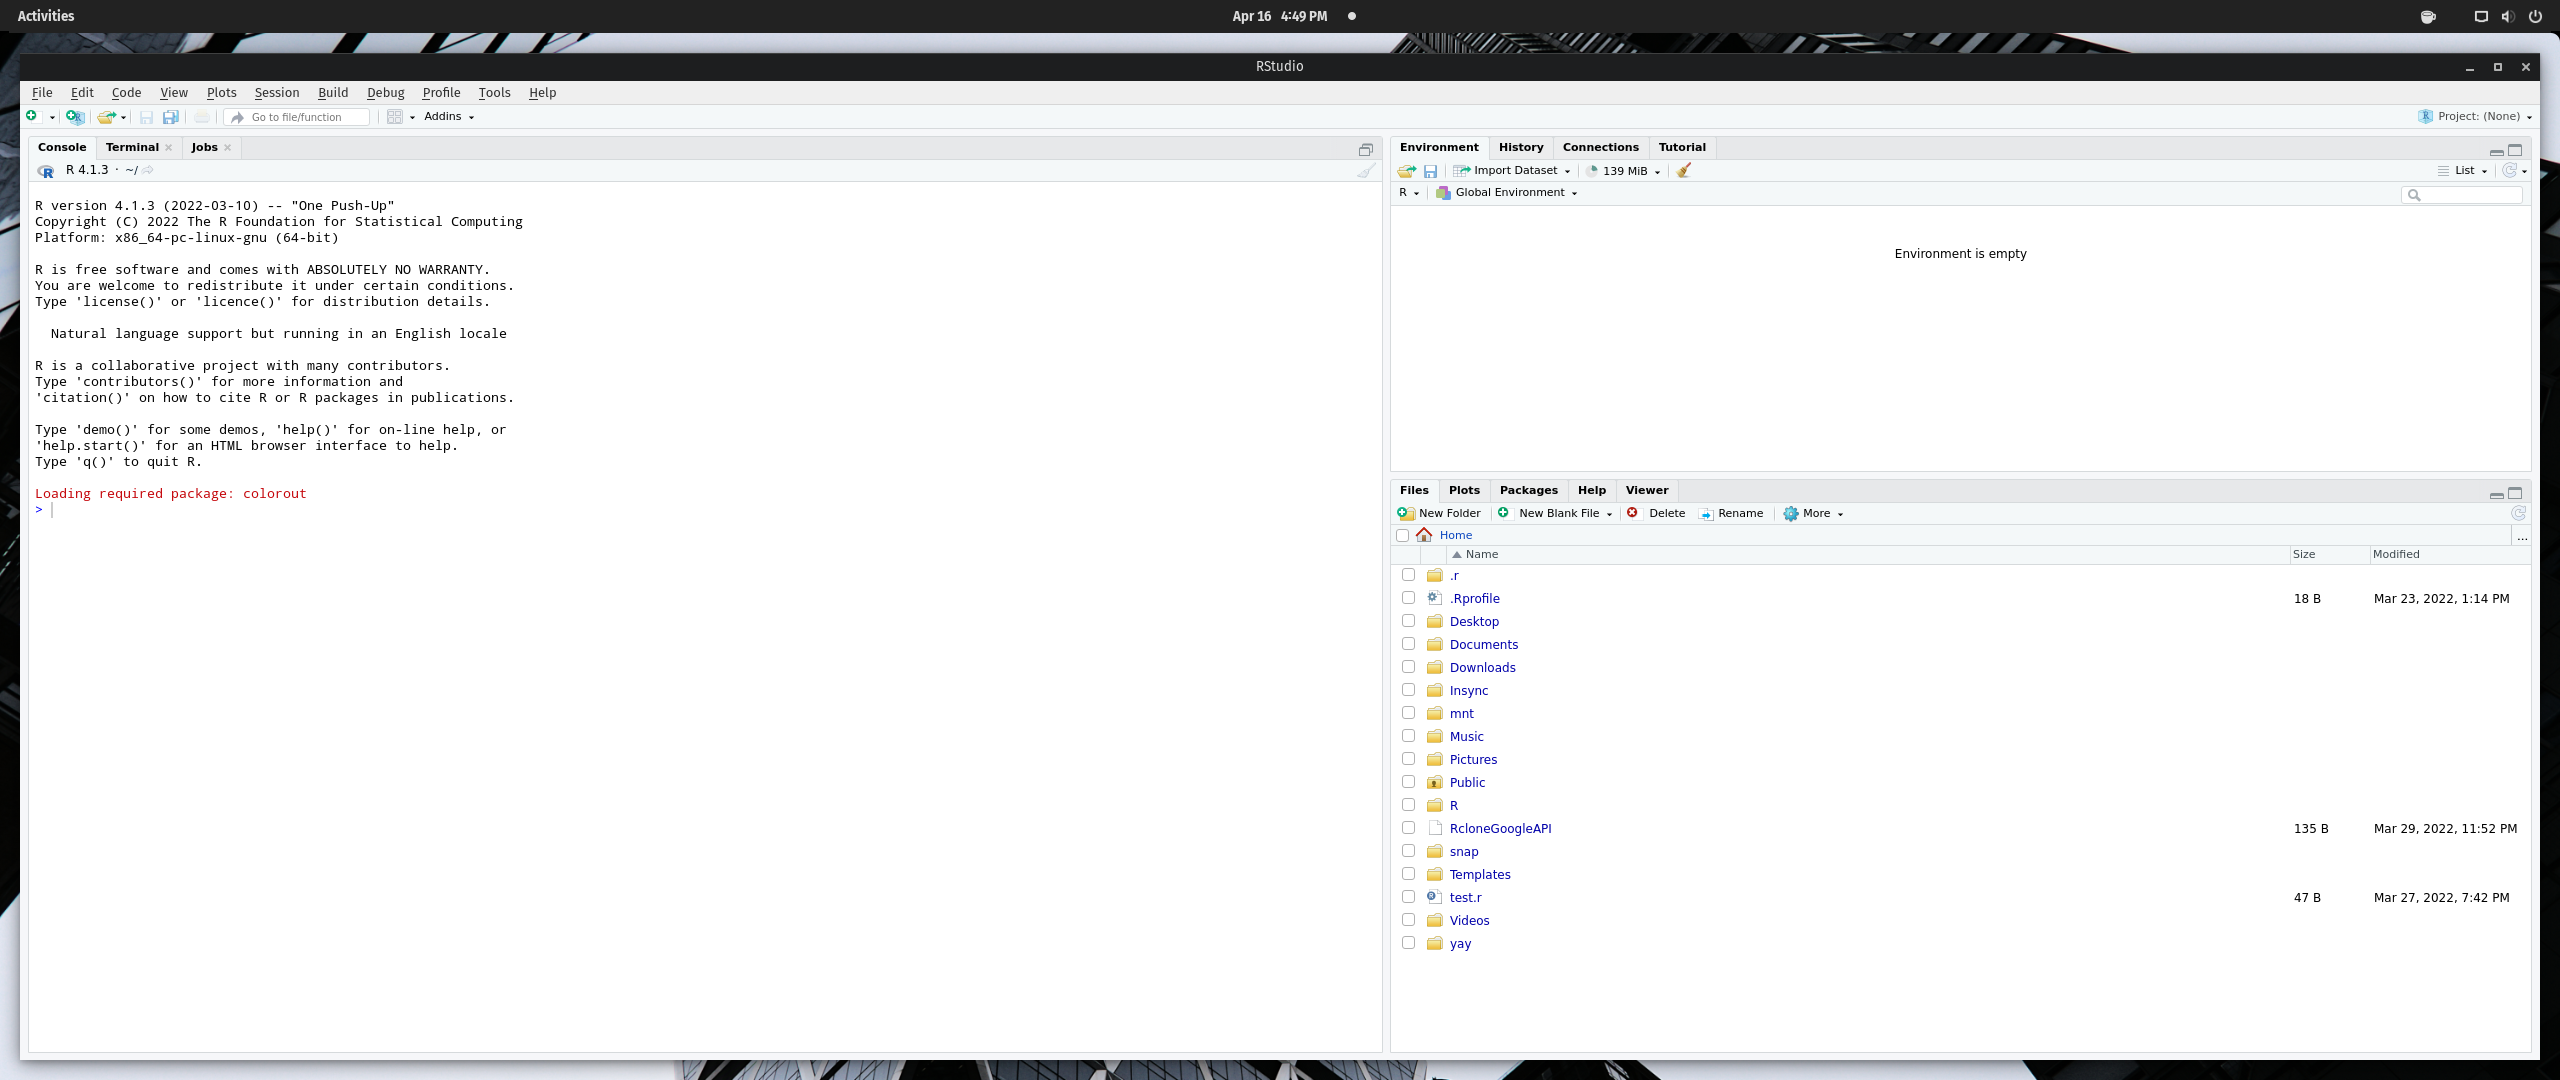
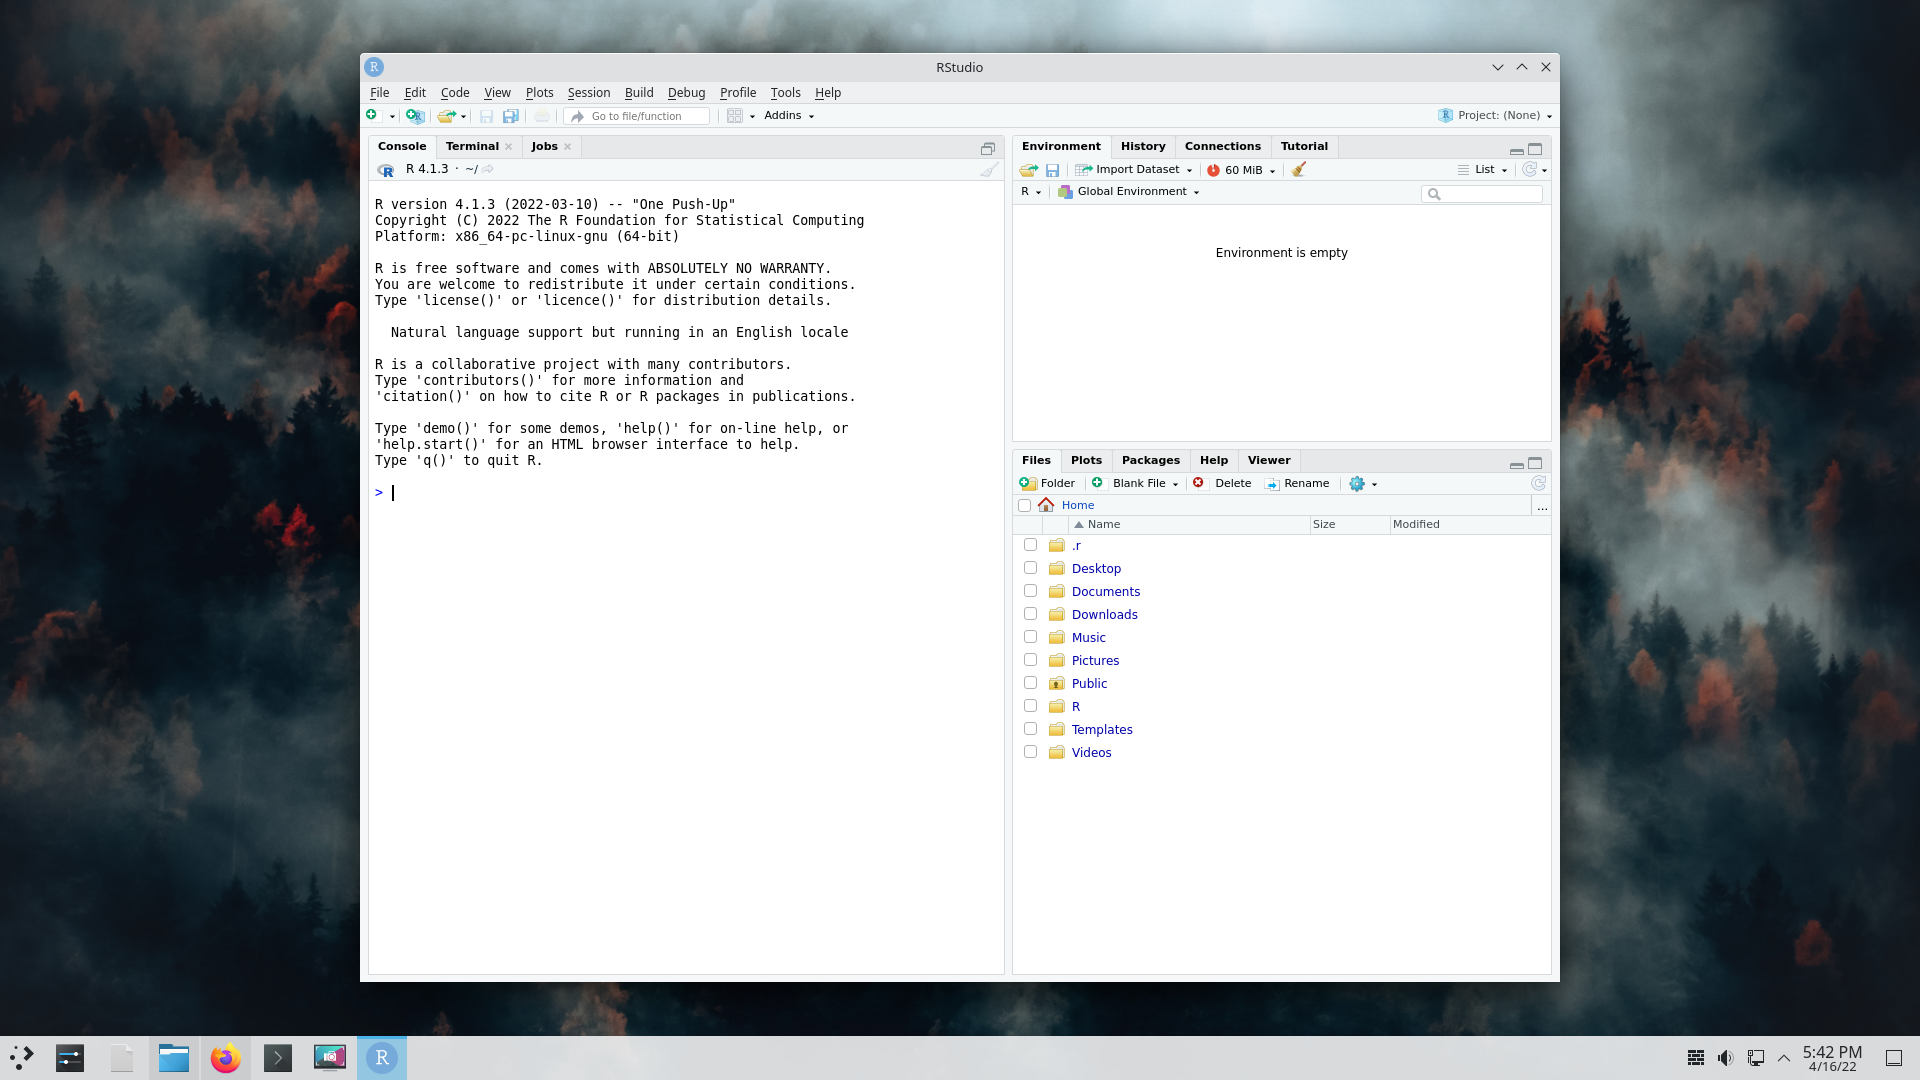
update linux screen shots

diff --git a/README.md b/README.md
@@ -49,6 +49,7 @@ complexity. Skills in data analysis with R is now becoming a must for many looki
 for graduate or professional positions and is a great addition to a
 resumé.
 
+ [Tutorial Videos](http://www.lundquistecology.com/videos/r-tutorials)
 
 <a id="org6dff171"></a>
 
@@ -57,9 +58,9 @@ resumé.
 Whether you are using MacOS, Windows, or Linux, you will need to
 download Git.
 
-MacOS:
+linux:
 
-Download [Git for MacOS](https://git-scm.com/download/mac) and just
+Download [Git for linux](https://git-scm.com/download/mac) and just
 follow the prompts.
 
 Windows:
@@ -81,38 +82,38 @@ Thats it, now you have Git!
 
 # Installing and using  R and RStudio
 
-These are the instructions for MacOS, but they should be similar to
-what you need to do in Windows or Linux
+These are the instructions for Linux, but they should be similar to
+what you need to do in Windows or MacOS
 
 1.  Download latest version of `R` from
     [cran.r-project.org](https://cran.r-project.org)
 2.  Download the latest version of `RStudio` from 
     [www.RStudio.org](https://www.rstudio.com/products/rstudio/download/)
 3.  Open RStudio.app 
-    ![img](./screenshots/macos/RStudio.png)
+    ![img](./screenshots/linux/RStudio.png)
 4.  Navigate to `File > New Project...`
-    ![img](./screenshots/macos/new_project.png)
+    ![img](./screenshots/linux/new_project.png)
 5.  Choose `Version Control`
-    ![img](./screenshots/macos/choose_vc.png)
+    ![img](./screenshots/linux/choose_vc.png)
 6.  Choose `Git`
-    ![img](./screenshots/macos/choose_git.png)
+    ![img](./screenshots/linux/choose_git.png)
 7.  Set `Repository URL: https://github.com/lundquist-ecology-lab/biostats`
-    and set the `Project directory name: biostats` and 
-    set `~/Desktop` (or whatever directory you want to
+    and set the `Project directory name: biostatistics` and 
+    set the projet subdirectory as `~/Documents/biostatistics` (or whatever directory you want to
     use) then select `Create Project`
-    ![img](./screenshots/macos/git_location.png)
+    ![img](./screenshots/linux/git_location.png)
 8.  At this point RStudio should download everything from this GitHub
     repository into your project directory (bottom right).
-    ![img](./screenshots/macos/project_directory.png)
-9.  You can now navigate folders and open files directly in
-    RStudio. For example: `Open example.r` and it will open
-    in the built-in text editor (top left)
-    `screenshots/macos/R_example.png`
-10. Content will be added and updated in the
-    repository frequently. To download the new content, you simply need to
-    `Pull` the code from the repository. Do this by
-    navigating to `Tools > Version Control > Pull Branches` 
-    ![img](./screenshots/macos/pull_branches.png)
+    ![img](./screenshots/linux/project_directory.png)
+9.  You can now navigate folders directly in
+    RStudio. For example: Open `porfolios` and it will open
+    the portfolios folder
+    ![img](./screenshots/linux/folder_open.png)
+10. You can also open `.r` files, including the portfolios and other assignments. RStudio
+    will open an `Editor` window on the `Top Left` panel
+    ![img](./screenshots/linux/file_example.png)
+12. These files can be edited and saved within your project directory.
+
 
 When in doubt, you can also get the files off of GitHub by downloading them
 manually. To do this:
@@ -123,11 +124,5 @@ manually. To do this:
 4.  Right click on `Raw` and select "Save Linked File"
 5.  Depending on your browser, it will either download automatically or you can choose where to download it on to your machine.
 6.  You should now be able to read and edit the file.
-
-[TA Blog](http://www.lundquistecology.com/blog.html)
-
-[Biologist's Analytic Toolkit by Dr. Bill Stein](http://biotoolbox.binghamton.edu)
-
-[MyCourses](https://mycourses.binghamton.edu)
 
 
